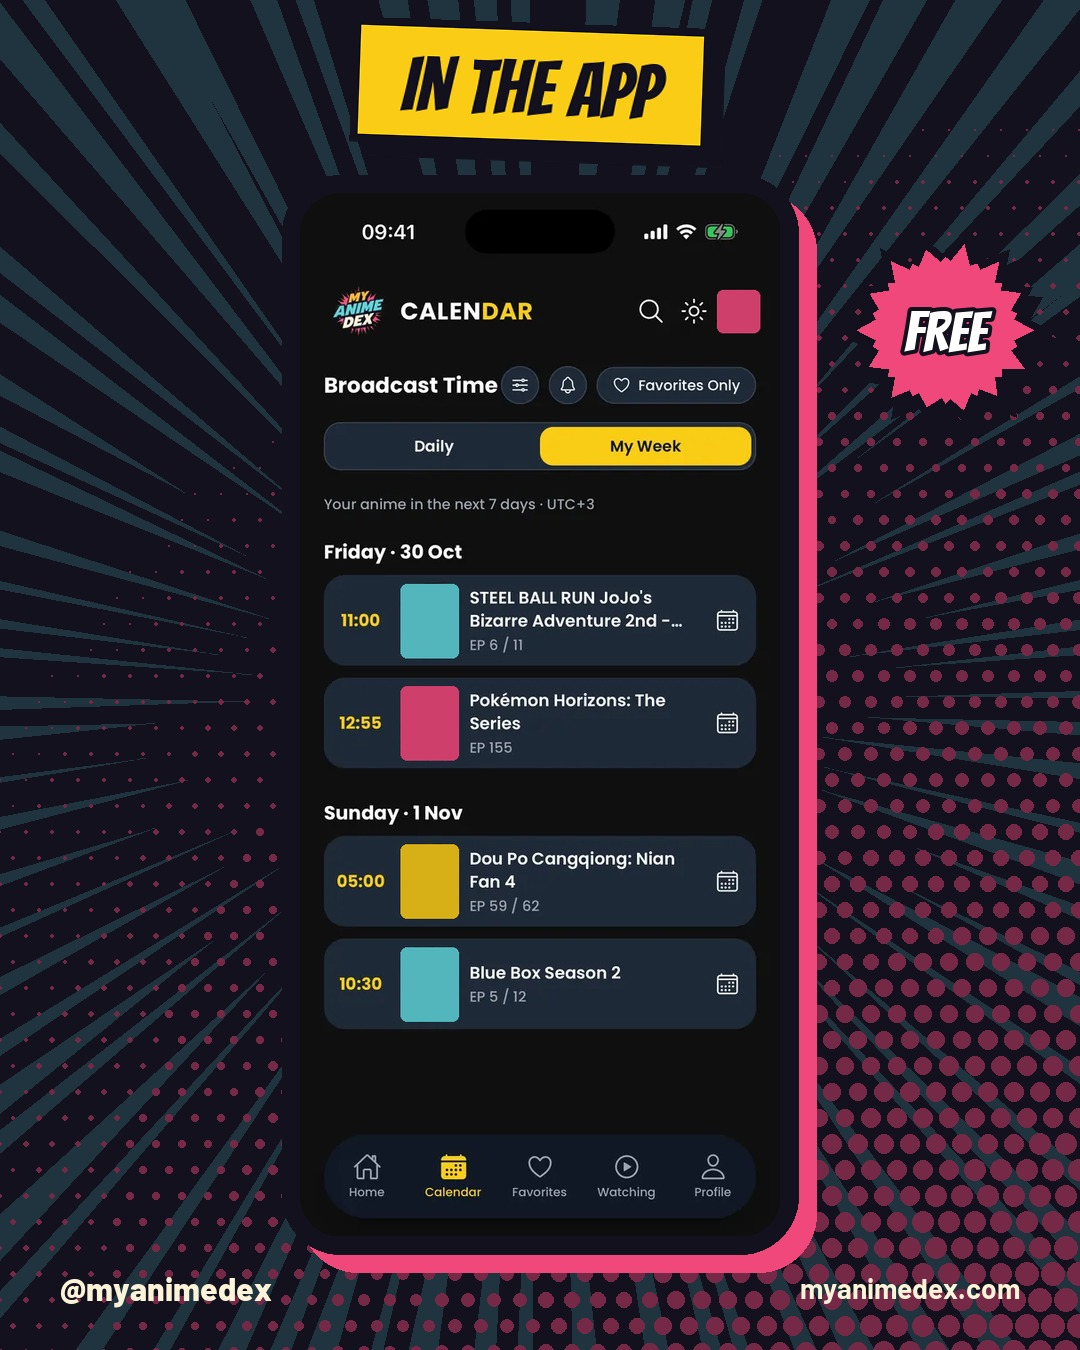
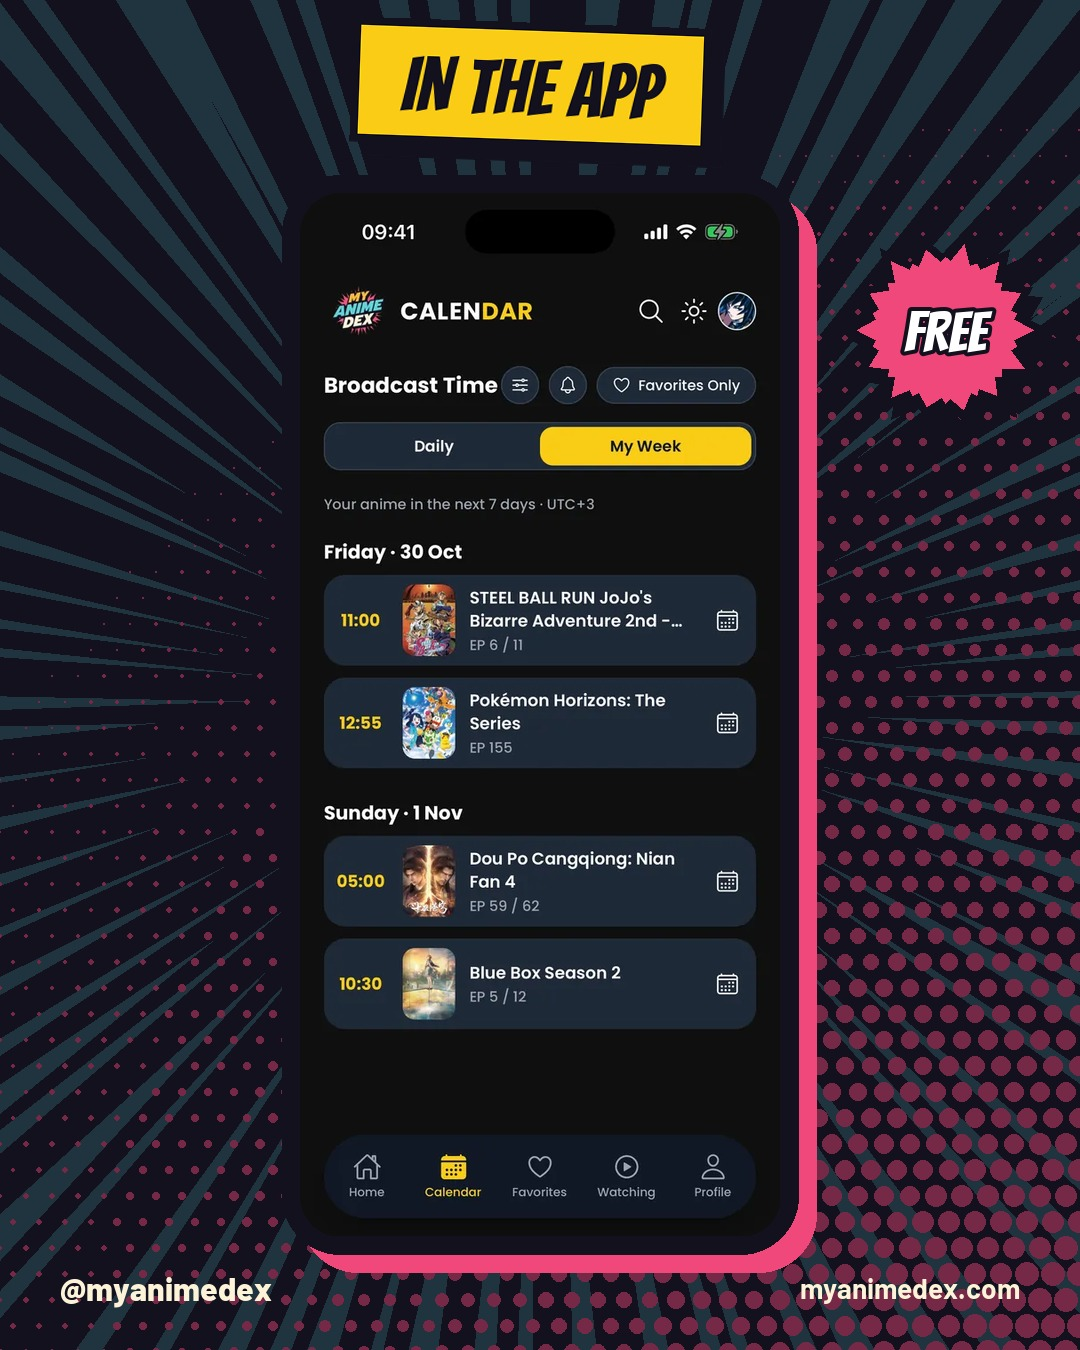
content: show anime covers in app screenshots, drop outdated language screenshot

Changed region(s): [[0.3667, 0.6222, 0.4278, 0.7778], [0.3667, 0.4356, 0.4278, 0.5911], [0.6417, 0.1867, 0.7028, 0.2489]]

diff --git a/README.md b/README.md
@@ -220,15 +220,14 @@ features:
     description: The airing calendar shows every episode ...  # 1–2 cümle (~160 karakter)
     kicker: APP FEATURE             # opsiyonel küçük etiket
     screenshot: assets/screenshots/calendar-myweek.webp   # opsiyonel, dikey PNG/JPG/WebP
-    mask:                           # opsiyonel: kapatılacak alanlar (ekran görüntüsünün kendi pikselleri)
-      - [113, 440, 178, 523]        # [x0, y0, x1, y1]
+    mask:                           # opsiyonel: gizlenecek alanlar [x0, y0, x1, y1] (nadiren gerekir)
     caption: |                      # opsiyonel: hazır açıklama yerine kendi metniniz
       ...
     enabled: true                   # false = atla
 ```
 - Liste yukarıdan aşağıya sırayla döner. Son paylaşılan `id` state'te tutulur. Araya yeni özellik ekleyebilirsiniz, sıra korunur.
 - **Ekran görüntüsü varsa** post 2 slaytlık bir carousel olur: 1. slayt tipografik kart ("SEE IT →"), 2. slayt telefon çerçevesinde uygulama ekranı ("IN THE APP"). Açıklamaya "👉 Swipe to see it in the app." satırı eklenir. Ekran görüntüsü yoksa tek görsel paylaşılır.
-- ⚠ **Resmî poster, kapak ve karakter avatarları görünmemeli.** Uygulamanın liste, takvim ve izleme ekranlarında kapak resimleri var. Bunların koordinatlarını `mask` alanına yazın; her kutu marka renginde düz bir blokla kapatılır. Koordinatları bulmak için görseli Önizleme'de (Preview) açıp alan seçebilir ya da Claude'dan isteyebilirsiniz. İstatistik ve dil ekranlarında poster yok, bunlarda maske gerekmez.
+- Ekran görüntüleri uygulamanın **güncel** hâlini göstermeli. Uygulama ekranlarındaki anime kapakları görünür kalır. `mask` alanı yalnızca bir şeyi gizlemek gerektiğinde (ör. kişisel bilgi) kullanılır.
 - Şu anki girdiler **örnektir**. Kendi metinlerinizle değiştirin.
 
 ### `content/tips.yaml` (Salı hikâyesi)
@@ -304,6 +303,6 @@ Lokal `--dry-run` çalıştırmaları hiçbir şey yüklemez veya paylaşmaz. Pl
 - **Hikâyelerin açıklaması yoktur.** Etiketler sadece postlarda bulunur.
 - **Cron gecikmesi**: GitHub zamanlanmış işleri yoğun saatlerde 5–20 dk geç başlatabilir.
 - **60 gün kuralı**: GitHub, 60 gün commit almayan public repolarda cron'u durdurur. Bot her hafta plan ve state commit'lediği için bu olmaz.
-- **Telif**: MyAnimeList veya AniList özet metinleri kullanılmaz; sadece puan, tarih, tür, bölüm sayısı ve stüdyo gibi olgusal veriler kullanılır. Resmî poster veya karakter görseli kullanılmaz. Tasarım tamamen tipografik. Görsellerde küçük bir "Data: AniList" kaynak notu var.
+- **Telif**: MyAnimeList veya AniList özet metinleri kullanılmaz; sadece puan, tarih, tür, bölüm sayısı ve stüdyo gibi olgusal veriler kullanılır. Şablonlarda resmî poster veya karakter görseli kullanılmaz, tasarım tipografiktir. Uygulama ekran görüntülerindeki anime kapakları ise olduğu gibi görünür. Görsellerde küçük bir "Data: AniList" kaynak notu var.
 - **Korsan etiketleri** (`#animeizle` vb.) yasak listesindedir ve yayını engeller.
 - Graph API sürümü `config.yaml` → `instagram.graph_version`. Meta sürümleri yaklaşık 2 yıl destekler; yılda bir güncellemek yeterli.
